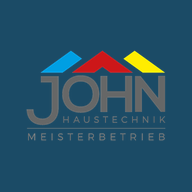
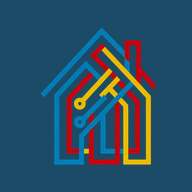
Add files via upload

Changed region(s): [[0.125, 0.1562, 0.875, 0.875]]

diff --git a/app.js b/app.js
@@ -2602,6 +2602,9 @@ const CHANGELOG = {
   'v61': [
     'Einführung beim ersten Start fragt jetzt aktiv alle wichtigen Daten ab: Name & Adresse, Arbeitszeiten, Jahresurlaubstage sowie die Startwerte für Urlaub/Überstunden beim Einstieg – kein Suchen mehr in den Einstellungen nötig.',
   ],
+  'v62': [
+    'App-Icon überarbeitet: nutzt jetzt nur noch das Haus-Symbol des neuen Logos statt des vollen Schriftzugs – deutlich besser erkennbar auf dem Homescreen.',
+  ],
 };
 
 const changelogModal = document.getElementById('changelogModal');
@@ -2647,7 +2650,7 @@ function checkChangelog(){
 }
 
 /* ===== Init ===== */
-const APP_VERSION = 'v61'; // wird bei jedem Update zusammen mit der Cache-Version in sw.js erhöht
+const APP_VERSION = 'v62'; // wird bei jedem Update zusammen mit der Cache-Version in sw.js erhöht
 document.getElementById('appVersionLabel').textContent = `Version ${APP_VERSION}`;
 let versionTapCount = 0;
 let versionTapTimer;

diff --git a/sw.js b/sw.js
@@ -1,4 +1,4 @@
-const CACHE_NAME = 'stundenzettel-v61';
+const CACHE_NAME = 'stundenzettel-v62';
 const ASSETS = [
   './index.html',
   './app.js',
